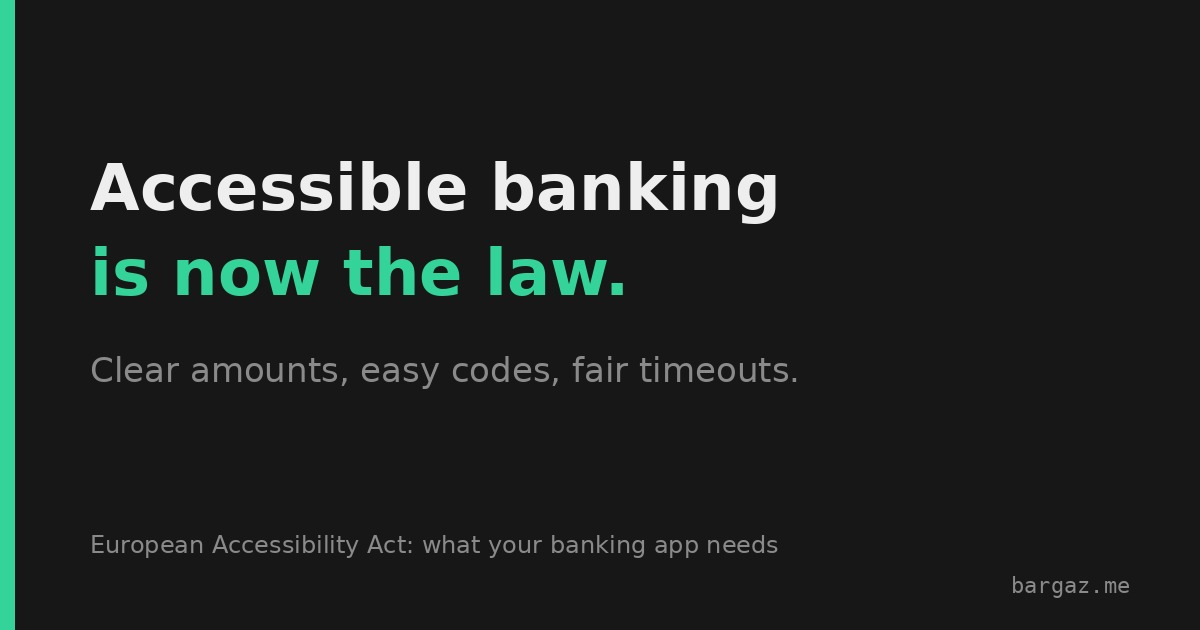
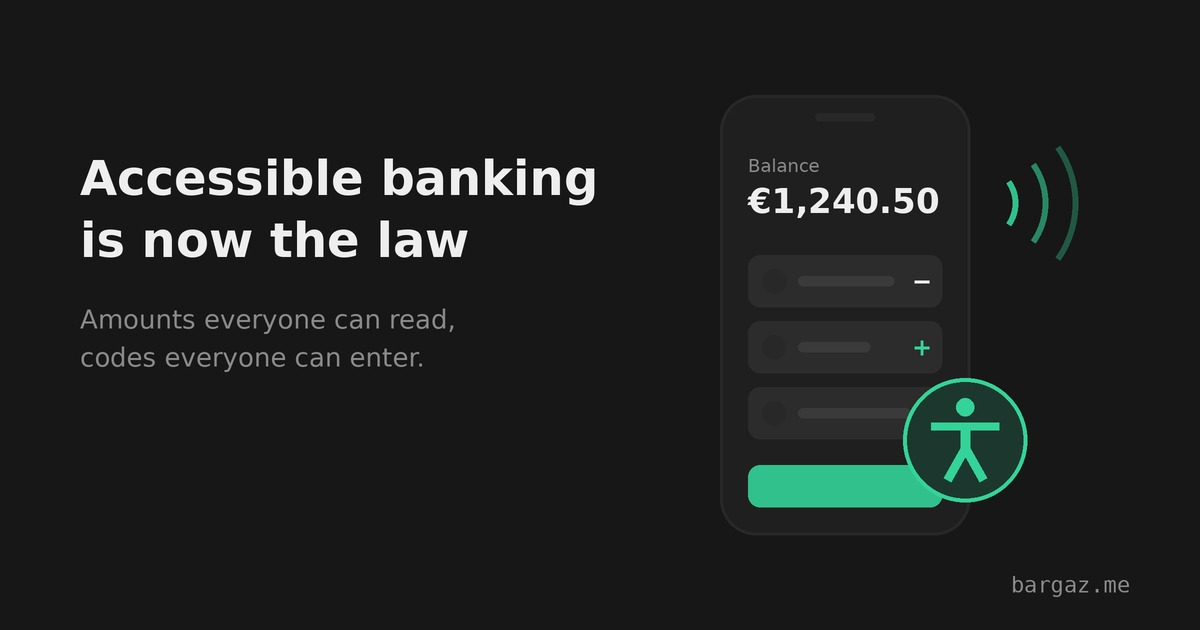
post: switch EAA hero to illustration

diff --git a/content/.content-calendar.md b/content/.content-calendar.md
@@ -10,4 +10,4 @@
 - 2026-08-30 · C · Secure Payment Confirmation: Pay With Face ID Instead of an SMS Code · post/secure-payment-confirmation-checkout (hero: illustration — checkout window + fingerprint + check badge)
 - 2026-09-06 · A · TypeScript 7 Is 10x Faster — but Your Linter Can't Use It Yet · post/typescript-7-migration (hero: illustration — stopwatch + shrinking build-time bars; D skipped this week by request — pick D or C next)
 - 2026-09-20 · D · The AI-Assisted Coding Interview Scores Your Judgment, Not Your Typing · post/ai-assisted-coding-interview-practice (hero: illustration — page with a sparkle badge + magnifier catching a flagged line)
-- 2026-09-28 · C · European Accessibility Act: Your Banking App Is Now Legally Required to Be Accessible · post/european-accessibility-act-banking-apps (hero: template 3 Big statement; extra post by request, same day as B Plugin4Shell)
+- 2026-09-28 · C · European Accessibility Act: Your Banking App Is Now Legally Required to Be Accessible · post/european-accessibility-act-banking-apps (hero: illustration — phone with balance + accessibility badge + sound waves; extra post by request)
